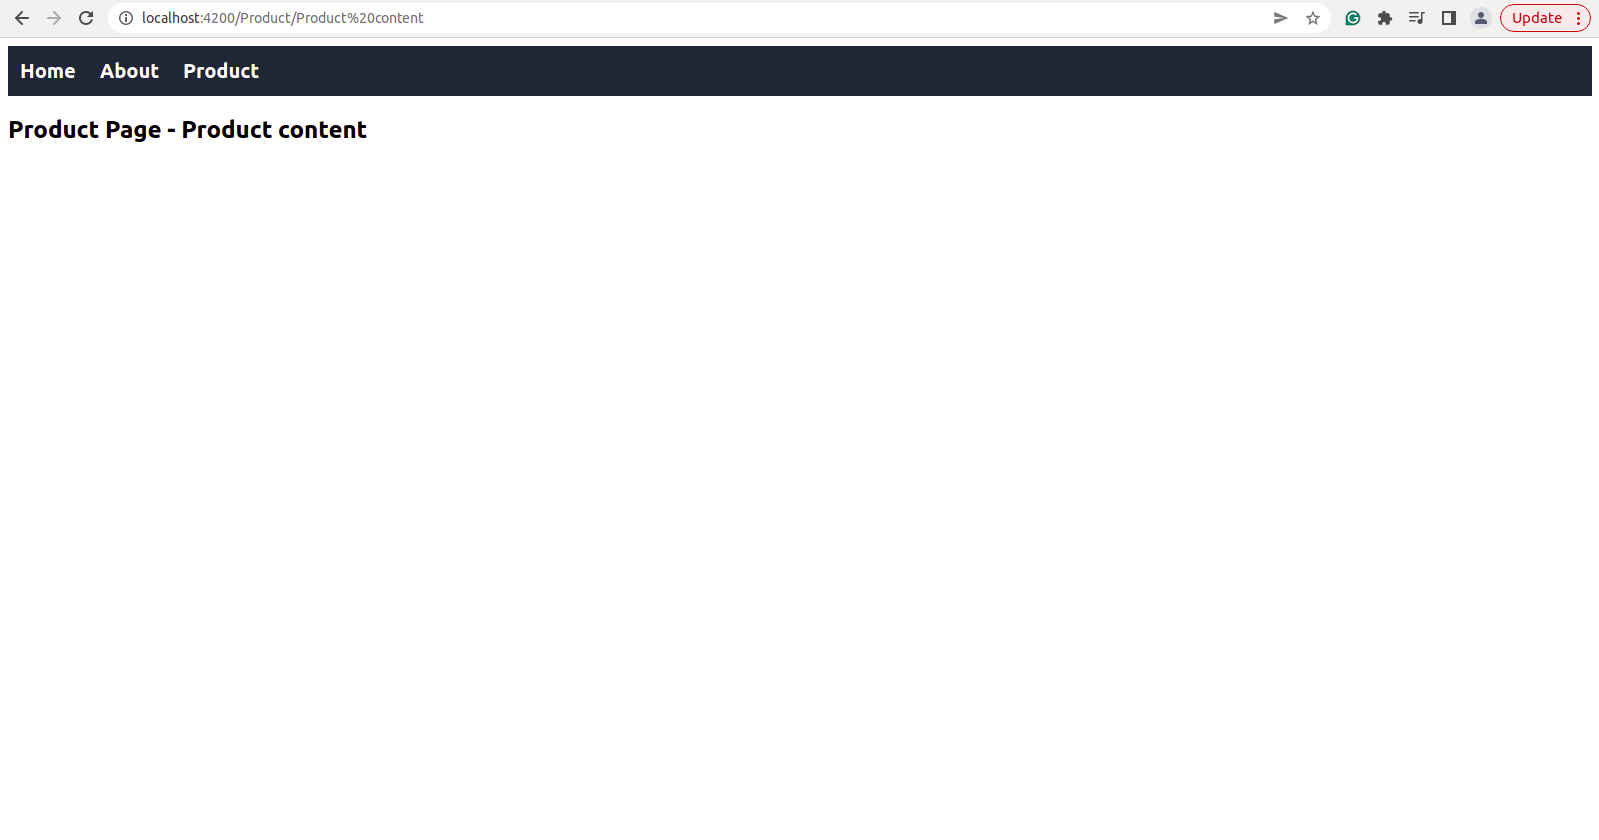
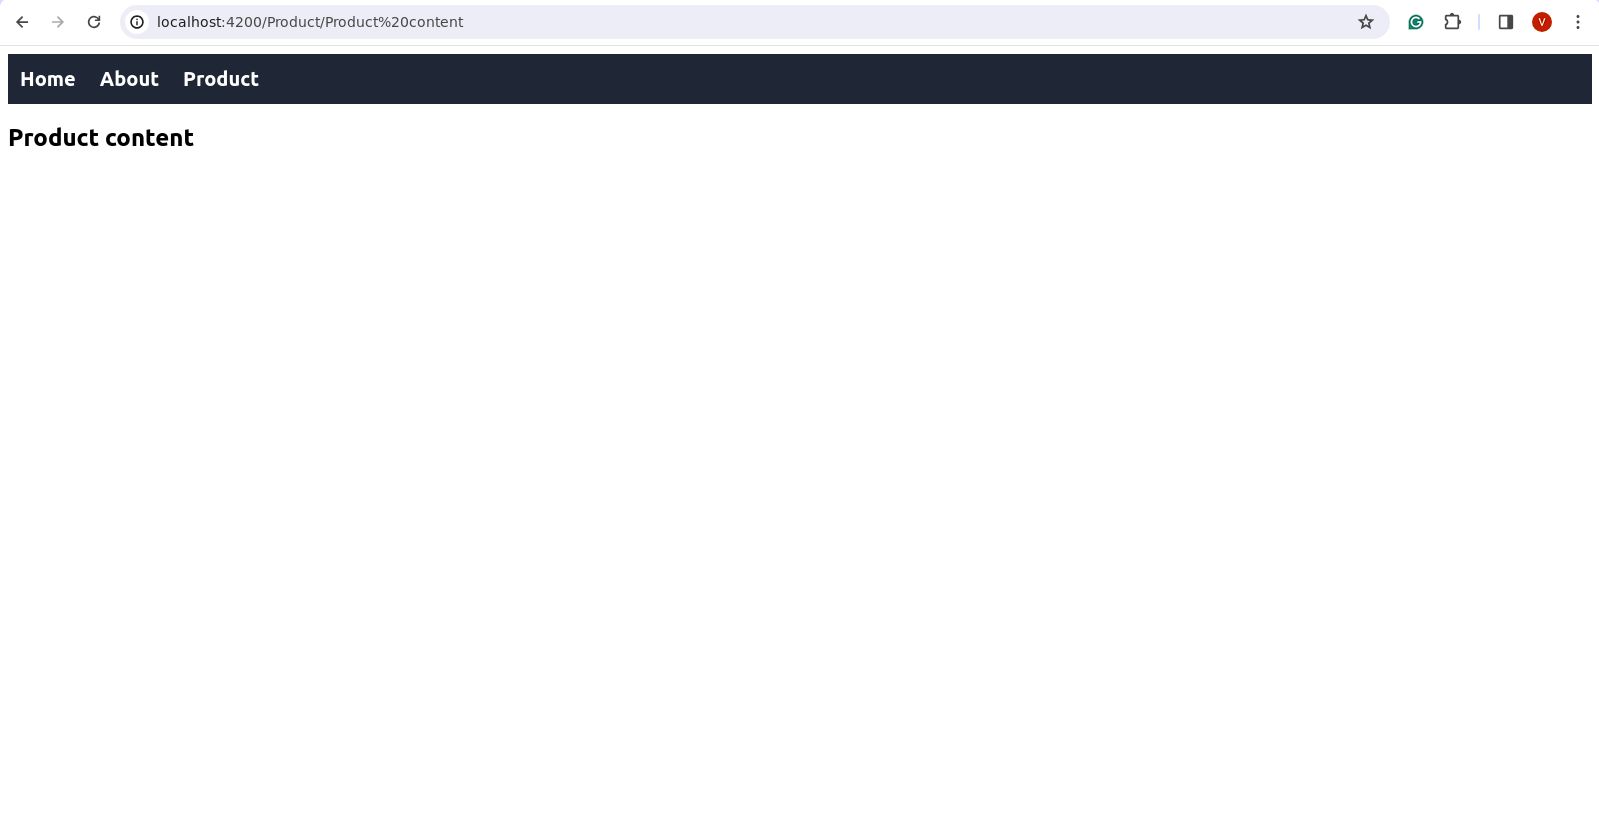
first commit

Changed region(s): [[0.0, 0.0, 1.0, 0.1871]]

diff --git a/src/app/app.module.ts b/src/app/app.module.ts
@@ -12,7 +12,7 @@ const appRoutes: Routes = [
   { path: 'Home', component: HomeComponent },
   { path: 'About', component: AboutComponent },
   { path: 'Product/:id', component: ProductComponent },
-  { path: '', redirectTo: '/Home', pathMatch: 'full' },
+  { path: '', redirectTo: '/Home', pathMatch: 'full' }  ,
 ];
 
 @NgModule({

diff --git a/src/app/product/product.component.ts b/src/app/product/product.component.ts
@@ -4,7 +4,7 @@ import { ActivatedRoute } from '@angular/router';
 
 @Component({
   selector: 'app-product',
-  template: `<h2>Product Page - {{productId}}</h2>`,
+  template: `<h2>{{productId}}</h2>`,
   styleUrls: ['./product.component.scss']
 })
 export class ProductComponent implements OnInit {
